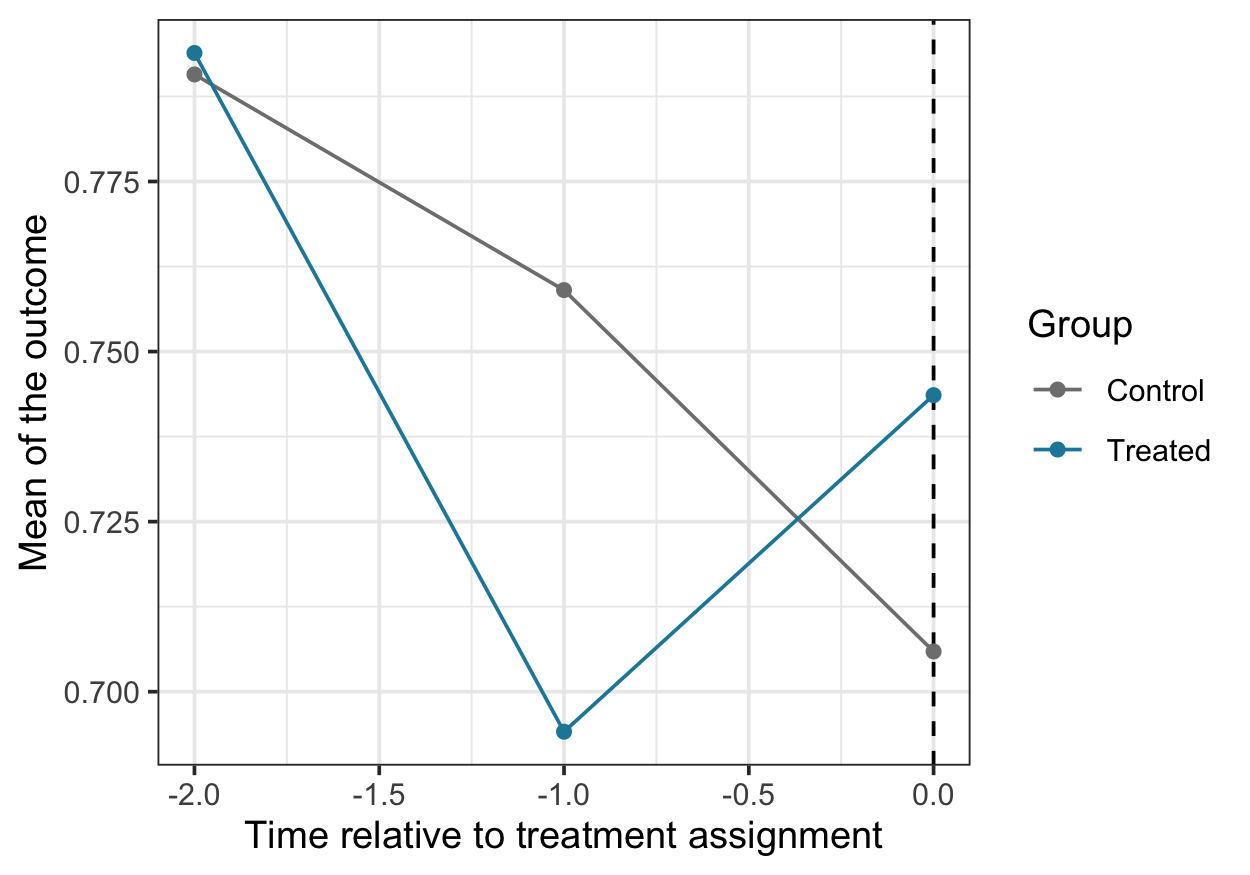
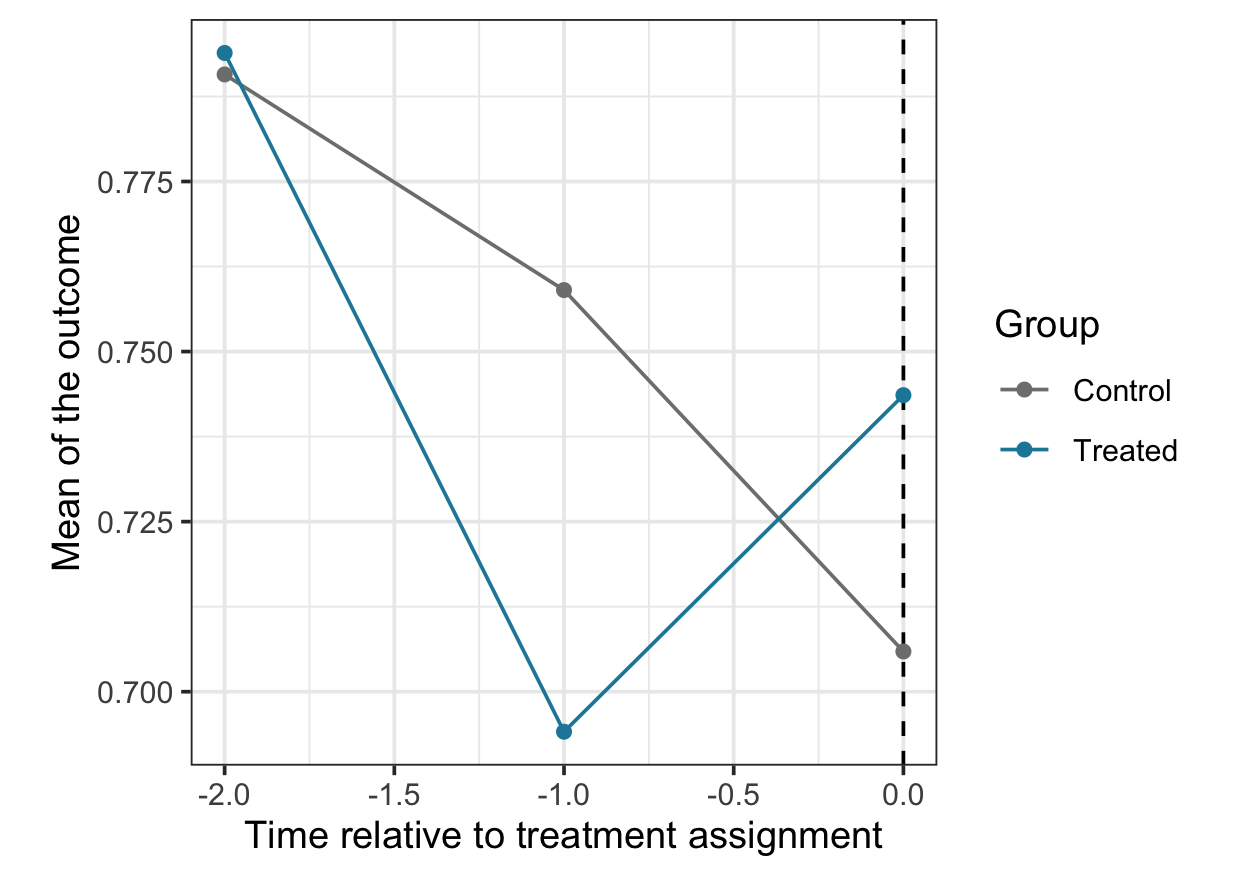
Update figure

diff --git a/README.md b/README.md
@@ -69,7 +69,7 @@ check_panel$estimate
 check_panel$plot + ggplot2::ylim(10.6, 10.7) + ggplot2::theme(aspect.ratio=1)
 ```
 
-<img src="man/figures/README-unnamed-chunk-3-1.png" width="100%" />
+<img src="man/figures/README-unnamed-chunk-3-1.png" width="70%" style="display: block; margin: auto;" />
 
 ### Step 2: Estimate the treatment effect with the double DID estimator
 
@@ -170,10 +170,10 @@ check_rcs$estimate
 ```
 
 ``` r
-check_rcs$plot
+check_rcs$plot + ggplot2::theme(aspect.ratio=1)
 ```
 
-<img src="man/figures/README-unnamed-chunk-5-1.png" width="70%" />
+<img src="man/figures/README-unnamed-chunk-5-1.png" width="70%" style="display: block; margin: auto;" />
 
 ``` r
 ## estimate ATT
@@ -254,10 +254,10 @@ check_sa$estimate
 ```
 
 ``` r
-check_sa$plot
+check_sa$plot + ggplot2::theme(aspect.ratio=1)
 ```
 
-<img src="man/figures/README-unnamed-chunk-7-1.png" width="100%" />
+<img src="man/figures/README-unnamed-chunk-7-1.png" width="70%" style="display: block; margin: auto;" />
 
 ## Step 2: Estimate staggered-adoption average treatment effect
 
